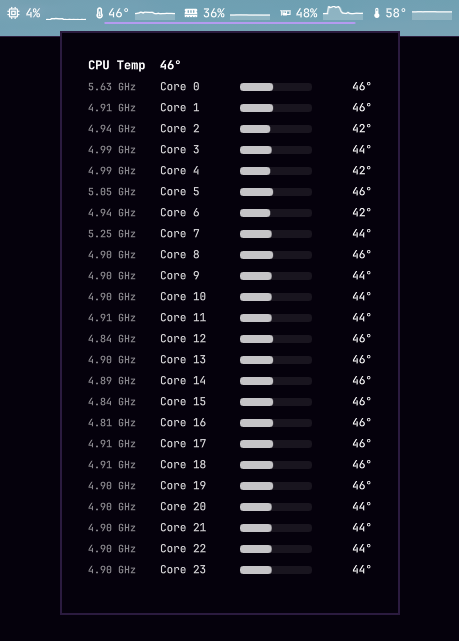
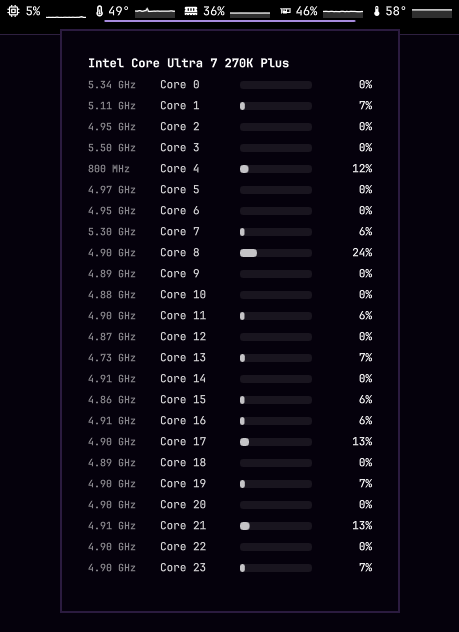
Refresh usage, temp, and GPU preview screenshots

diff --git a/README.md b/README.md
@@ -1,7 +1,7 @@
 # downpour-sysmon
 
 <p align="center">
-  <img src="preview.png" alt="Per-core CPU stats" width="360">
+  <img src="preview.png" alt="Per-core CPU usage" width="360">
 </p>
 
 A no-frills system monitor for [Omarchy](https://omarchy.org). One job: show what your machine is doing, then get out of the way.
@@ -9,8 +9,12 @@ A no-frills system monitor for [Omarchy](https://omarchy.org). One job: show wha
 **CPU · RAM · GPU** — usage and temps as quiet bar chips with optional sparklines. Click a chip for detail (per-core CPU stats). Right-click for settings. Alerts turn red when something’s hot. Polls every second. That’s it.
 
 <p align="center">
-  <img src="preview-gpu.png" alt="GPU detail" width="360">
+  <img src="preview-temp.png" alt="Per-core CPU temperature" width="360">
   &nbsp;
+  <img src="preview-gpu.png" alt="GPU detail" width="360">
+</p>
+
+<p align="center">
   <img src="preview-settings.png" alt="Settings" width="420">
 </p>
 
